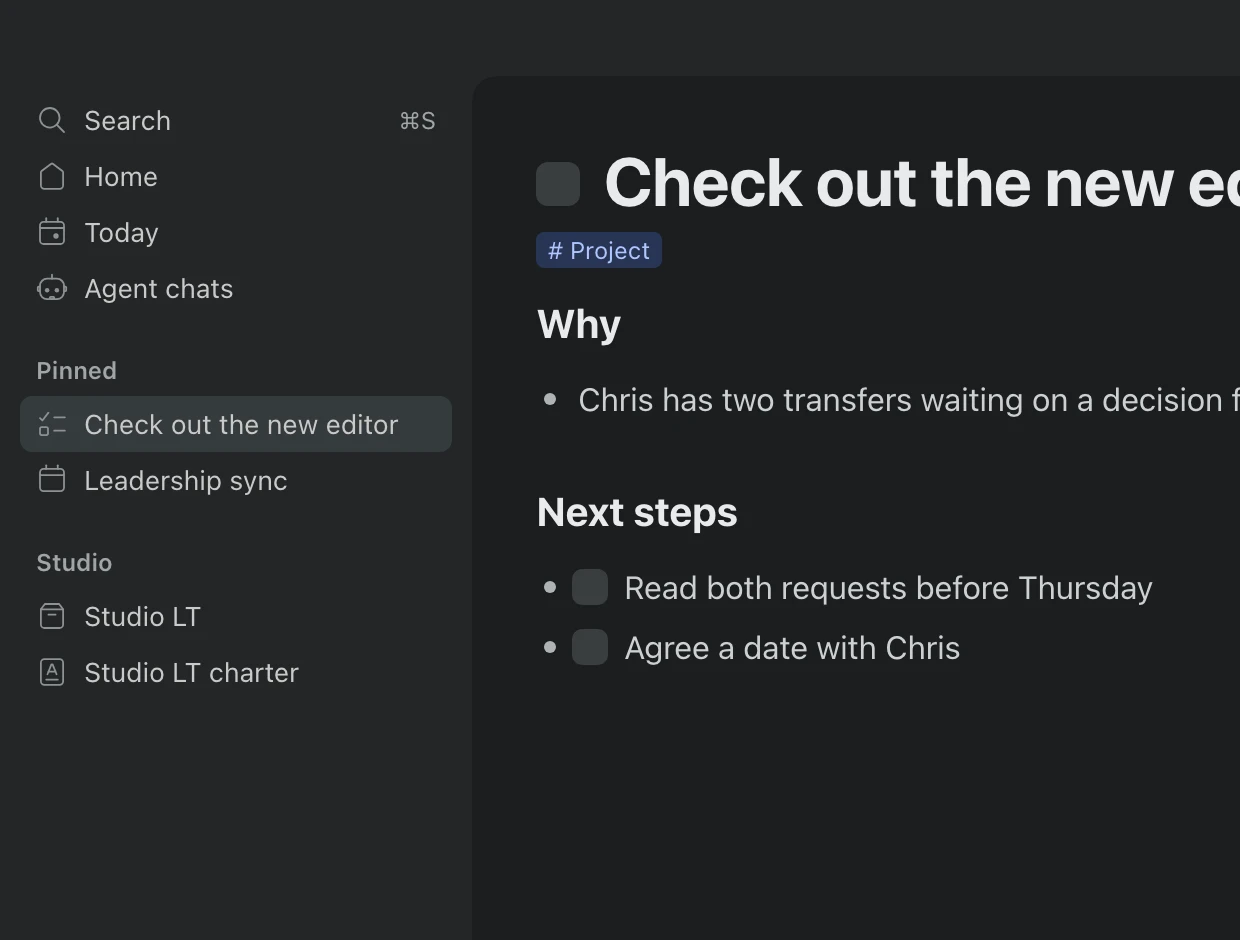
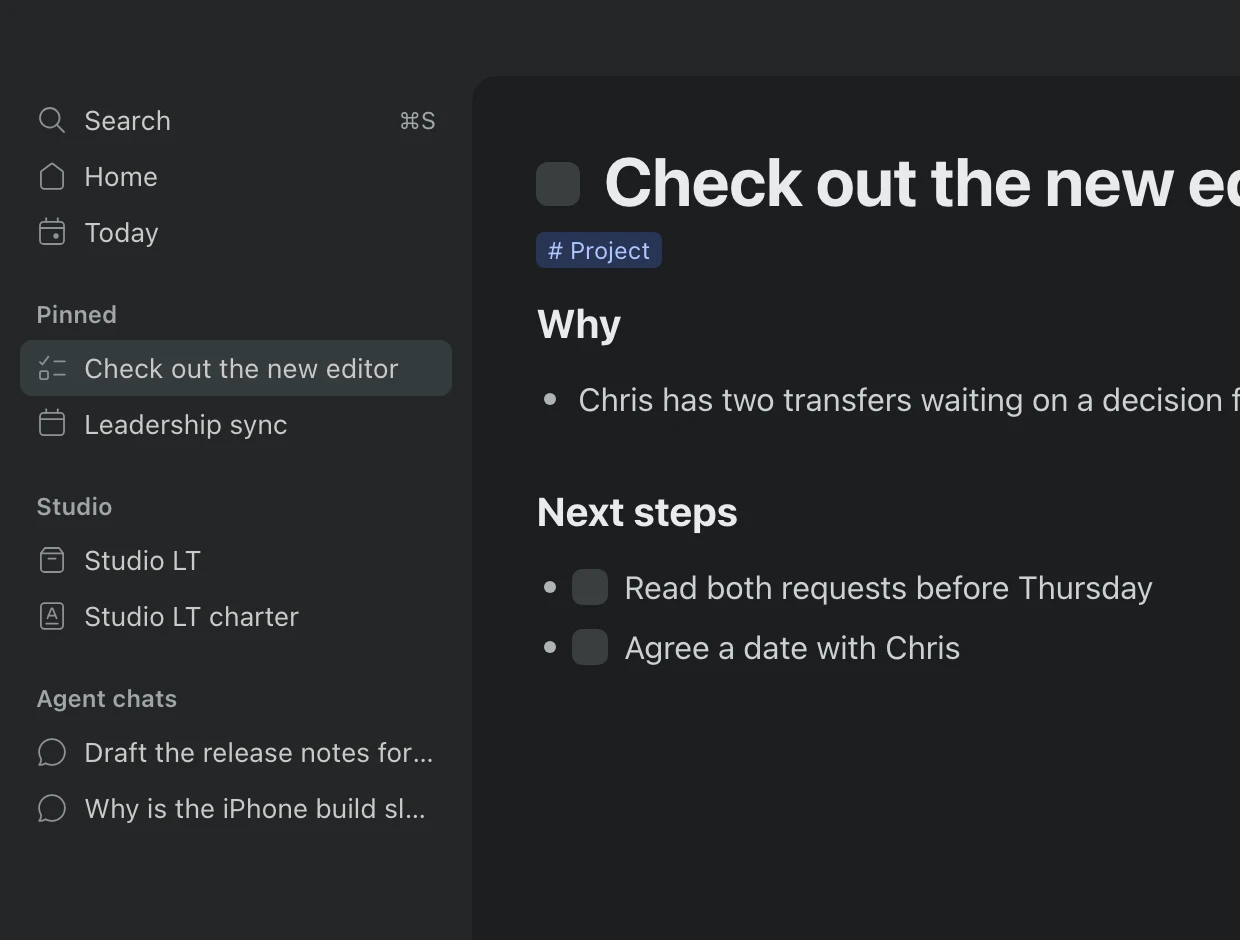
Agent chats in the sidebar: a section with your newest chats with Codex

diff --git a/shell.js b/shell.js
@@ -316,15 +316,17 @@ bridge.onCommand((cmd, arg) => {
   }
 });
 
-// ---- the window's sidebar: Search, Home, Today and Agent chats, then your sidebar pins as Tana keeps them (docs/OUTLINER.md §19) ----
+// ---- the window's sidebar: Search, Home and Today, your sidebar pins, then your Agent chats as Tana keeps them (docs/OUTLINER.md §19) ----
 // Every row acts in the page the Graph pane would follow (the last to take the keys): a pin opens there, Search opens
-// its ⌘S, Home, Today and Agent chats run its Cmd+K rows. The pins are Tana's own sidebar collection (docs/PINNING.md): pins at the
+// its ⌘S, Home and Today run its Cmd+K rows, and an agent chat opens there. The pins are Tana's own sidebar collection (docs/PINNING.md): pins at the
 // top level under Pinned, then each section with its pins, read from main (main/pins.js pinTree) and read again
 // whenever main says it moved (pins:changed). Its edge is the handle: dragged it resizes, and let go narrower than
 // SB_SHUT it is its icons alone (SB_RAIL wide), never less; ⌘K Collapse/Expand sidebar and ⌃⌘S switch the two.
 const sidebar = document.getElementById('sidebar'), edge = document.getElementById('sbEdge');
 const SB_RAIL = 48, SB_MIN = 180, SB_MAX = 420, SB_SHUT = 120;
-const sbFolded = new Set(JSON.parse(localStorage.getItem('windowSidebarFolded') || '[]')); // section ids, 'pinned' for the top level
+const sbFolded = new Set(JSON.parse(localStorage.getItem('windowSidebarFolded') || '[]')); // section ids, 'pinned' for the top level, 'agentChats'
+let sbChats = []; // your chats with Codex, newest first (main/agentchats.js): the Agent chats section, its newest SB_CHATS
+const SB_CHATS = 8;
 demoMode = localStorage.getItem('demoMode') === '1'; // renderer/segments.js: titles made up while demo mode is on
 // the row glyphs: one chosen with Set icon (a Nucleo "nc-…", its markup sent with the pin by main/pins.js pinTree), a
 // node's own where icons.js has it, the ones it names differently, else its kind's (tana:search: → a search), else a document's.
@@ -350,7 +352,7 @@ function sbDraw() {
   const rows = [];
   const search = sbButton('sbrow', 'search', 'Search', () => toPage({ orbital: 'palette', mode: 'search' }));
   if (searchKey) { const k = document.createElement('kbd'); k.textContent = searchKey; search.append(k); }
-  rows.push(search, sbButton('sbrow', 'home', 'Home', () => toPage({ orbital: 'action', id: 'goHome' })), sbButton('sbrow', 'today', 'Today', () => toPage({ orbital: 'action', id: 'today' })), sbButton('sbrow', 'robot', 'Agent chats', () => toPage({ orbital: 'action', id: 'agentChats' })));
+  rows.push(search, sbButton('sbrow', 'home', 'Home', () => toPage({ orbital: 'action', id: 'goHome' })), sbButton('sbrow', 'today', 'Today', () => toPage({ orbital: 'action', id: 'today' })));
   const pin = (n) => {
     const b = sbButton('sbrow', n.node.icon, demoText(n.node.title || 'Untitled', n.uri), () => toPage({ orbital: 'goto', id: n.uri }), n.uri, n.node.svg);
     b.dataset.uri = n.uri;
@@ -362,18 +364,26 @@ function sbDraw() {
   const pinned = (list) => list.filter((n) => n.uri && n.node);
   // the pins outside any section under Pinned, then each section; a section with nothing in it is not drawn
   const sections = [{ id: 'pinned', label: 'Pinned', pins: pinned(sbTree) }, ...sbTree.filter((n) => !n.uri && n.label).map((n) => ({ id: n.id, label: n.label, pins: pinned(n.children || []) }))];
-  for (const s of sections.filter((x) => x.pins.length)) {
-    const shut = sbFolded.has(s.id), head = document.createElement('button');
-    head.className = 'sbsec' + (shut ? ' shut' : ''); head.tabIndex = -1; head.textContent = s.label;
+  // a section's heading folds it, and shows its count while folded
+  const head = (id, label, count) => {
+    const shut = sbFolded.has(id), head = document.createElement('button');
+    head.className = 'sbsec' + (shut ? ' shut' : ''); head.tabIndex = -1; head.textContent = label;
     head.setAttribute('aria-expanded', String(!shut));
-    if (shut) { const n = document.createElement('span'); n.className = 'n'; n.textContent = s.pins.length; head.append(n); }
+    if (shut) { const n = document.createElement('span'); n.className = 'n'; n.textContent = count; head.append(n); }
     else head.insertAdjacentHTML('beforeend', glyph('chevronRight'));
     head.onmousedown = (e) => e.preventDefault();
-    head.onclick = () => { if (sbFolded.has(s.id)) sbFolded.delete(s.id); else sbFolded.add(s.id); localStorage.setItem('windowSidebarFolded', JSON.stringify([...sbFolded])); sbDraw(); };
-    rows.push(head, ...(shut ? [] : s.pins.map(pin)));
-  }
+    head.onclick = () => { if (sbFolded.has(id)) sbFolded.delete(id); else sbFolded.add(id); localStorage.setItem('windowSidebarFolded', JSON.stringify([...sbFolded])); sbDraw(); };
+    return head;
+  };
+  for (const s of sections.filter((x) => x.pins.length)) rows.push(head(s.id, s.label, s.pins.length), ...(sbFolded.has(s.id) ? [] : s.pins.map(pin)));
   // nothing pinned yet: what would fill it, and how
   if (!sections.some((s) => s.pins.length)) { const p = document.createElement('p'); p.className = 'sbempty'; p.textContent = 'Pin anything here with ⌘K, Pin to sidebar …'; rows.push(p); }
+  // Agent chats: the newest, each opening its chat in the page; none yet offers a new one, more than fit the whole list
+  if (bridge.agentChats) {
+    const chat = (c) => { const b = sbButton('sbrow', 'chat', demoText(c.title || 'New chat', c.id), () => toPage({ orbital: 'goto', id: c.id }), c.id); b.dataset.uri = c.id; return b; };
+    const more = sbChats.length > SB_CHATS ? [sbButton('sbrow', 'robot', 'All agent chats', () => toPage({ orbital: 'action', id: 'agentChats' }))] : [];
+    rows.push(head('agentChats', 'Agent chats', sbChats.length), ...(sbFolded.has('agentChats') ? [] : sbChats.length ? [...sbChats.slice(0, SB_CHATS).map(chat), ...more] : [sbButton('sbrow', 'robot', 'New chat with Codex', () => toPage({ orbital: 'action', id: 'newAgentChat' }))]));
+  }
   sidebar.replaceChildren(...rows);
   sbMark();
 }
@@ -389,6 +399,9 @@ function sbLoad() {
   bridge.pins().then((tree) => { if (mine === sbReading) { sbTree = Array.isArray(tree) ? tree : []; sbDraw(); } }, () => {});
 }
 bridge.onPins?.(sbLoad);
+function sbChatsLoad() { bridge.agentChats?.().then((list) => { sbChats = Array.isArray(list) ? list : []; sbDraw(); }, () => {}); }
+bridge.onAgentChats?.(sbChatsLoad);
+sbChatsLoad();
 // The width it is drawn at: --sw for the sidebar, the panes beside it and the edge (shell.css); its icons alone below SB_SHUT.
 function sbApply(width = sbOpen ? sbWidth : SB_RAIL) {
   document.body.style.setProperty('--sw', width + 'px');

diff --git a/manual/scenes/kit.js b/manual/scenes/kit.js
@@ -39,7 +39,9 @@ const SIDEBAR_PINS = [{ id: 'p1', uri: 'mockdoc2', node: { title: 'Check out the
   { id: 'p2', uri: 'mockmeeting2', node: { title: 'Leadership sync', icon: 'meeting' }, children: [] },
   { id: 's1', label: 'Studio', children: [{ id: 'p3', uri: 'tana:space:mock', node: { title: 'Studio LT', icon: 'space' }, children: [] },
     { id: 'p4', uri: 'mockspacedoc0', node: { title: 'Studio LT charter', icon: 'doc' }, children: [] }] }];
-const live = (doc = null, withReal = false) => ({ page: 'shell', js: '(' + (async (doc, REAL, PINS) => {
+// and its Agent chats section (main/agentchats.js list's shape), the mock's two chats with Codex (renderer/mock.js)
+const SIDEBAR_CHATS = [{ id: 'orbital:agent-chat:0198c0de-0000-7000-8000-000000000001', title: 'Draft the release notes for 0.11' }, { id: 'orbital:agent-chat:0198c0de-0000-7000-8000-000000000002', title: 'Why is the iPhone build slow?' }];
+const live = (doc = null, withReal = false) => ({ page: 'shell', js: '(' + (async (doc, REAL, PINS, CHATS) => {
   const theme = document.documentElement.dataset.theme || 'light';
   const prep = (f) => { const w = f.contentWindow; if (REAL) w.eval(REAL); w.document.getElementById('login')?.click(); if (theme === 'dark') w.applyTheme('dark');
     w.eval("tana.splitWindow = async (where, start) => parent.orbOpen(where, start || {}, new URLSearchParams(location.search).get('side') || '')"); };
@@ -47,11 +49,11 @@ const live = (doc = null, withReal = false) => ({ page: 'shell', js: '(' + (asyn
   document.getElementById('workspace').replaceChildren();
   for (const b of document.querySelectorAll('.head button, #create')) b.querySelector('svg')?.remove();
   let seq = 3;
-  window.shell = { state: () => ({ doc, theme }), onCommand: (cb) => { window.shellCmd = cb; }, layout() {}, onPins() {}, pins: async () => PINS };
+  window.shell = { state: () => ({ doc, theme }), onCommand: (cb) => { window.shellCmd = cb; }, layout() {}, onPins() {}, pins: async () => PINS, onAgentChats() {}, agentChats: async () => CHATS };
   window.orbOpen = (where, start, from) => { const id = String(++seq); localStorage.setItem('view', start.view || 'library'); localStorage.setItem('place', start.place || '{}'); window.shellCmd('open', { id, where, from, focus: true }); return id; };
   await import('/shell.js?live');
   await new Promise((r) => setTimeout(r, 1800));
-}) + ')(' + J(doc) + ',' + J(withReal ? REAL : '') + ',' + J(SIDEBAR_PINS) + ')' });
+}) + ')(' + J(doc) + ',' + J(withReal ? REAL : '') + ',' + J(SIDEBAR_PINS) + ',' + J(SIDEBAR_CHATS) + ')' });
 // a Trellis layout of panels side by side: layout([0.6, 0.4], [panel('a', ['page']), panel('b', ['page2'])], { page: page(''), page2: page('2') })
 const panel = (id, views, selected = views[0]) => ({ kind: 'panel', id: 'panel-' + id, views, selected });
 const page = (side, links) => ({ type: 'page', params: links ? { side, links: true } : { side } });
@@ -74,4 +76,4 @@ const dropOnCreate = (type, name = 'receipt.png') => ({ page: 'shell', js: "(() 
 // Auto-translate on or off (renderer/translate.js): the Dutch note mocknl0 then reads in English
 const translate = (on) => ({ js: on ? "setPref('translateTo', 'English'); render(true)" : "setPref('translateTo', undefined); render(true)" });
 
-module.exports = { open, settle, palette, onlyPalette, NARROW, REAL, real, seedTaskMeta, seedFields, live, panel, page, layout, overlay, helpTour, quickAdd, dropOnCreate, translate, SIDEBAR_PINS };
+module.exports = { SIDEBAR_CHATS, open, settle, palette, onlyPalette, NARROW, REAL, real, seedTaskMeta, seedFields, live, panel, page, layout, overlay, helpTour, quickAdd, dropOnCreate, translate, SIDEBAR_PINS };

diff --git a/manual/pins.html b/manual/pins.html
@@ -90,8 +90,8 @@
 
   <section class="topic">
     <h2 id="sidebar" data-k="tack pinned mark pin to sidebar section collapse expand icons">Pin to the sidebar</h2>
-    <p>The sidebar is Tana's own list of your favourite places, the same one you see at home.tana.inc, and every Orbital window shows it on its left. At the top are <b>Search</b> (<kbd>⌘S</kbd>), <b>Home</b>, <b>Today</b> and <b>Agent chats</b> (<a href="chats.html#agent-chats">Chat with Codex</a>). Under them come the nodes you pinned: the ones in no section under <b>Pinned</b>, then each of your sections. Click a pin to open it in the pane you are working in; the one on screen is highlighted. Click a section's name to fold it, and it shows how many pins it holds.</p>
-    <figure class="shot"><img data-m="pins-sidebar" alt="The window's sidebar: Search, Home, Today and Agent chats, then Pinned with two pins and a Studio section with two more"><figcaption>Two loose pins under Pinned, and a section called Studio.</figcaption></figure>
+    <p>The sidebar is Tana's own list of your favourite places, the same one you see at home.tana.inc, and every Orbital window shows it on its left. At the top are <b>Search</b> (<kbd>⌘S</kbd>), <b>Home</b> and <b>Today</b>, and at the bottom your newest chats with Codex under <b>Agent chats</b> (<a href="chats.html#agent-chats">Chat with Codex</a>). Under them come the nodes you pinned: the ones in no section under <b>Pinned</b>, then each of your sections. Click a pin to open it in the pane you are working in; the one on screen is highlighted. Click a section's name to fold it, and it shows how many pins it holds.</p>
+    <figure class="shot"><img data-m="pins-sidebar" alt="The window's sidebar: Search, Home and Today, Pinned with two pins, a Studio section with two more, then Agent chats with two chats"><figcaption>Two loose pins under Pinned, and a section called Studio.</figcaption></figure>
     <p>To pin the node you are on, open <kbd>⌘K</kbd> and choose <b>Pin to sidebar …</b>. It asks where: <b>Pinned</b>, one of your sections, or a new section, which you name by typing. A node already in the sidebar moves to the section you pick. <b>Edit pins</b> offers the same row.</p>
     <figure class="shot"><img data-m="pins-sidebar-section" alt="Pin to sidebar: Pinned with no section, the Studio section with its pin count, and New section"><figcaption>Pick a section, or type a name for a new one.</figcaption></figure>
     <p>Drag the sidebar's edge to make it wider or narrower. Let go of it narrow and it keeps only its icons, each named when you point at it; it never disappears. <b>Collapse sidebar</b> and <b>Expand sidebar</b> in <kbd>⌘K</kbd>, or <kbd>⌃⌘S</kbd>, switch between the two.</p>

diff --git a/manual/scenes/pins.js b/manual/scenes/pins.js
@@ -18,7 +18,7 @@ module.exports = [
     { type: 'fri' }, { wait: 1100 }, { js: 'palInput.select()' }, { type: 'in 3 days' }, { wait: 1100 }, { js: 'palInput.select()' }, { type: '12 oct' }, { wait: 1100 },
     { js: 'palInput.select()' }, { type: 'next week' }, { wait: 1200 }] },
   { name: 'pins-edit', setup: [...open(A), pinned, { wait: 400 }], steps: [{ key: '⌘K' }, { type: 'edit pins' }, { wait: 300 }, { key: '↩' }, { wait: 900 }], clip: card },
-  // the window's sidebar: Search, Home and Today, then the pins outside a section and each section's (kit.js SIDEBAR_PINS)
+  // the window's sidebar: Search, Home and Today, the pins outside a section and each section's (kit.js SIDEBAR_PINS), then Agent chats (SIDEBAR_CHATS)
   { name: 'pins-sidebar', setup: [W, { js: "goTo('mockdoc2')" }, { wait: 900 }], clip: [0, 0, 620, 470] },
   // Pin to sidebar … asks which section: Pinned, a section of yours, or a new one named as you type
   { name: 'pins-sidebar-section', setup: open(A), steps: [{ key: '⌘K' }, { type: 'pin to sidebar' }, { wait: 300 }, { key: '↩' }, { wait: 600 }], clip: card },
@@ -32,4 +32,3 @@ module.exports = [
     { js: "[...document.querySelectorAll('.node .text')].at(-1).id = 'mc-last'" }, { click: '#mc-last', at: [0.99, 0.5] }, { wait: 300 }, { key: '↩' }, { type: 'Call the venue ' }, { type: '@' }, { wait: 400 },
     { type: 'friday' }, { wait: 900 }, { key: '↩' }, { wait: 1300 }] },
 ];
-

diff --git a/manual/scenes/run.js b/manual/scenes/run.js
@@ -227,7 +227,7 @@ function parseKey(combo) {
         const state = { doc: shot.layout || (panes > 1 ? pair(shot.graph) : null), theme };
         // every shot starts from a fresh window: nothing a page stored in an earlier shot (its place, a fold, a pref)
         await send('Storage.clearDataForOrigin', { origin: 'http://127.0.0.1:' + server.address().port, storageTypes: 'local_storage,session_storage,indexeddb' });
-        const { identifier } = await send('Page.addScriptToEvaluateOnNewDocument', { source: 'if (window === top) window.shell = { state: () => (' + JSON.stringify(state) + '), onCommand() {}, layout() {}, onPins() {}, pins: async () => (' + JSON.stringify(require('./kit').SIDEBAR_PINS) + ') };' });
+        const { identifier } = await send('Page.addScriptToEvaluateOnNewDocument', { source: 'if (window === top) window.shell = { state: () => (' + JSON.stringify(state) + '), onCommand() {}, layout() {}, onPins() {}, pins: async () => (' + JSON.stringify(require('./kit').SIDEBAR_PINS) + '), onAgentChats() {}, agentChats: async () => (' + JSON.stringify(require('./kit').SIDEBAR_CHATS) + ') };' });
         await send('Page.navigate', { url: 'http://127.0.0.1:' + server.address().port + '/shell.html' });
         await sleep(1500);
         await send('Page.removeScriptToEvaluateOnNewDocument', { identifier });

diff --git a/main/agentchats.js b/main/agentchats.js
@@ -13,7 +13,7 @@ const os = require('node:os');
 const path = require('node:path');
 const agent = require('./agent');
 const settings = require('./settings');
-const { send } = require('./state');
+const { S, send } = require('./state');
 const { chatRows } = require('../sdk/chat');
 const { appServerRpc, codexBin, TASK } = require('./agents/codex');
 
@@ -45,7 +45,12 @@ function linkOf(id) {
   if (!link) throw new Error('That chat is not here any more');
   return { threadId: t, ...link };
 }
-function store(threadId, link) { const all = { ...links() }; if (link) all[threadId] = link; else delete all[threadId]; settings.set(KEY, all); send('agentChat:changed', LIST); }
+// the list changed: the pages read it again, and so does each window's sidebar (shell.js), which hears nothing of send
+function store(threadId, link) {
+  const all = { ...links() }; if (link) all[threadId] = link; else delete all[threadId]; settings.set(KEY, all);
+  send('agentChat:changed', LIST);
+  for (const w of S.windows || []) { const wc = w.shell && w.shell.webContents; if (wc && !wc.isDestroyed()) wc.send('agentChat:changed', LIST); }
+}
 const away = (link) => agent.elsewhere({ device: link.device });
 const title = (text) => agent.oneLine(text, 60) || 'New chat';
 // the list page's rows (and what the renderer opens them by), newest first

diff --git a/manual/windows.html b/manual/windows.html
@@ -127,7 +127,7 @@
       <li><b>The page's buttons</b> Back, Forward and the rest show while the pointer is over the pane. The “…” opens the pane's menu.</li>
       <li><b>The line between panes</b> Drag it to give one pane more room.</li>
       <li><b>Create new</b> in the corner makes a new node in the pane in front.</li>
-      <li><b>The sidebar</b> One per window, beside its panes: Search, Home, Today, Agent chats and your sidebar pins. Its edge resizes it, down to its icons alone (<kbd>⌃⌘S</kbd>). See <a href="pins.html#sidebar">Pins</a>.</li>
+      <li><b>The sidebar</b> One per window, beside its panes: Search, Home, Today, your sidebar pins and your chats with Codex. Its edge resizes it, down to its icons alone (<kbd>⌃⌘S</kbd>). See <a href="pins.html#sidebar">Pins</a>.</li>
     </ol>
     <p>A window with one page has no tab bar at all: it looks as if there were no panes, and the page's buttons sit in the window's header. The tab bars appear once there is a second page.</p>
     <div class="note"><b>One pane per place.</b> A node, a document or a view is shown in one pane at a time. Open something that is already on screen in another pane, from a row, a link or <kbd>⌘K</kbd>, and Orbital takes you to that pane. The Library is the one page you can have open in several.</div>

diff --git a/manual/chats.html b/manual/chats.html
@@ -310,7 +310,7 @@
     <div class="split">
       <div>
         <ul>
-          <li><b>Agent chats</b>, in the sidebar or <kbd>⌘K</kbd>, lists your chats with Codex, newest first. One started on another Mac is listed too, and opens on that Mac.</li>
+          <li>The sidebar lists your newest chats with Codex under <b>Agent chats</b>, and <kbd>⌘K</kbd> <b>Agent chats</b> opens all of them, newest first. One started on another Mac is listed too, and opens on that Mac.</li>
           <li><kbd>⌘K</kbd> <b>Open in Codex</b> shows the chat in the Codex app, <b>Stop Codex</b> stops an answer being written, and <b>Delete chat</b> takes it off the list. It stays in Codex.</li>
           <li>Codex works in a folder of its own, <code>~/.orbital/chats</code>, and does not stop to ask you for approval: its own reviewer decides. When the Codex app has the chat open, your message is queued there and answered in the app.</li>
         </ul>

diff --git a/manual/index.html b/manual/index.html
@@ -127,7 +127,7 @@
       <li><b>What happened</b> Changes to what you watch and new tasks in your Inbox, newest first. <a href="timeline.html">Timeline</a></li>
       <li><b>My Tasks</b> A saved search of your open tasks, one of the views you can make yourself. <a href="views.html">Views</a></li>
       <li><b>Create new</b> A task, a note, a chat or a search. Drop an image on it to turn it into a task. <a href="start.html">First steps</a></li>
-      <li><b>The sidebar</b> Search, Home, Today and Agent chats, then what you pinned to your sidebar, in its sections. <a href="pins.html#sidebar">Pins</a></li>
+      <li><b>The sidebar</b> Search, Home and Today, what you pinned to your sidebar in its sections, then your chats with Codex. <a href="pins.html#sidebar">Pins</a></li>
     </ol>
   </section>
 

diff --git a/preload.js b/preload.js
@@ -20,6 +20,9 @@ if (file === 'shell.html') {
     pins: () => ipcRenderer.invoke('pins:tree'),
     pinMenu: (uri) => ipcRenderer.invoke('pins:menu', uri), // a right-click on a pin: Remove pin
     onPins: (cb) => ipcRenderer.on('pins:changed', () => cb()),
+    // its Agent chats section: your chats with Codex, newest first (main/agentchats.js), read again on onAgentChats
+    agentChats: () => ipcRenderer.invoke('agentChat:list'),
+    onAgentChats: (cb) => ipcRenderer.on('agentChat:changed', () => cb()),
   });
   return;
 }

diff --git a/AGENTS.md b/AGENTS.md
@@ -10,7 +10,7 @@ Adding something — an IPC call, a `main/` module, a view or an app page, a Cmd
 |------|------|
 | `main.js`, `main/` | The Electron main process. `main.js` is the process boundary only: windows (outliner windows — ⌃⌘N opens another, see docs/OUTLINER.md Windows — and the Help tour or Quick Add Task laid over one, main.js openOverlay; a canvas in a window of its own on Tana’s page, canvas:open, #611), menu, boot, the `TANA_MAIN_TEST` hook, and registering the renderer's calls: a `main/` module that answers the page exports them as `ipc = { 'channel': (event, ...args) => … }` beside the code they call, main.js registers every such table in one loop, and `preload.js` names each channel for the page (a new call: the module's table and preload.js; a new module: one entry in that loop). sdk-check fails when a preload channel has no handler, a handler has no caller, or a channel has two. Everything that knows Tana is in `main/`, CommonJS modules requiring each other without cycles, listed here in dependency order (a module requires only ones before it): `state` (the one `S` object every module shares for what gets reassigned — client, me, win, session, status, active view — plus the caches, constants and `send`/`sendChanged`/`setStatus`/`scheduleRefresh`; views.js injects `S.refresh`) → `settings` (the app's own settings document in Tana: what follows you between machines, with SQLite as its mirror) → `MCP server` (the Orbital MCP server at orbital.md/mcp as Orbital talks to it: your Orbital's key and its calls, the link message and every event's words, and a node's Agent status line; shared by `agents/linked.js`, `documents` and the phones' engine, docs/MCP-SERVER.md) → `icons` (the glyph a type is drawn with, and the Nucleo set behind Set icon) and `agent` (the agents a node can be handed to, as plugins that register themselves: which are on, the default, and the task each node became; the plugins are `agents/`, below) → `rows` (graph node → row/Node, hues, types, members, event meta) → `documents` (subscribe/op/mut, on-demand subscriptions and their release, the cross-document undo stack, delete/restore, create, info, onChange, access context) → `images`, `meetings`, `pins`, `inbox`, `proposals`, `presence` (each described below) → `related` (owner chain, space contents, fields, the meeting hub: write-up, call link, pins, outcomes, notes, over the write-up and call-link rules in sdk/events.js) and `views` (the views' filters, the one query, the refresh and the live queries that trigger it, search, hidden titles, `start`) → `timeline`. Leaves no other module requires: `ai` (the one place the app talks to a model: Discuss with, Auto-pick type, the boot icon pick, a meeting time said in words; ChatGPT sign-in or the API key; its instructions and model labels are `prompts`, which the phones' engine bundles too as orbital.prompts), `agents/` (the agent plugins, issue #669: `tana.js`, a Tana chat answered by Tana's AI; `codex.js`, a Codex task through its app-server, which `ai` also signs in with; `linked.js`, every agent linked through the MCP server at orbital.md/mcp (your Dot, OpenAI's agent in ChatGPT), one plugin each as they come and go, docs/MCP-SERVER.md; and `index.js`, which loads them and answers the renderer: assign, link, open, status), `agentchats` (Agent chats: a chat in Orbital that is a Codex thread, run in ~/.orbital/chats, only its link kept, docs/CHATS.md §13), `chatagents` (@Codex in a chat, over the same agents: the question written to the chat, a task on this device given the chat, its answer read back and kept on this device only, docs/CHATS.md §12), `pdf` (Export to PDF), and `flags` (feature flags: experiments switched on this Mac only, Cmd+K Enable feature flag) with the one experiment behind a flag, `decisions` (OpenAI's Decisions API for the questions with a fixed set of answers: Auto-pick type, Suggest sensitive marks and the order of the @ and # menus; main.js switches to it while its flag is on and an API key is stored, so it comes out as one file and that switch; issue #807). In more detail: `pins` (sidebar/date/hub pins, today and week nodes), `meetings` (a meeting's time, place and people for ⌘K, over sdk/events.js and access.canEditEvent, and the meeting you have joined right now, over sdk/calls), `images` (image fetch with the session token, the upload behind pasted and dropped images), `inbox` (the Notifications page over sdk/inbox.js: rows, unread count, the read writes, `inbox:changed` live), `proposals` (the Proposals page over sdk/proposals.js: the pending proposals as their documents' rows, approve and reject), `timeline` (the Timeline page: others' changes to watched nodes, tasks others, MCP or Tana's AI put in your Inbox and the tasks you added yourself, as a log rebuilt from Tana on every read), `presence` (the presence room of the document on screen, over sdk/presence.js: who else is there and on which block, and your own caret told to Tana). `meeting-notes` (a meeting's private notes, docs/MEETINGS.md Private notes: owned by and pinned on the meeting, restricted to you, at ids derived from you and the meeting, made on your first word, confirmed private by Tana before a word is written; shared by you later they stay the editor, the page saying so, and every write is checked against their live access; a leaf over `documents`). `scripts/sdk-check.js` runs all of it in one vm context with a fake electron. The only place that knows about "tasks". |
 | `preload.js` | `window.api` surface for the renderer (contextBridge), used by both windows; in a window's shell (its main frame) only `window.shell`. |
-| `shell.html`, `shell.js`, `shell.css` | A window's own page: a [Trellis](https://github.com/DanFessler/trellis) workspace (`@danfessler/trellis`, loaded as an ES module from node_modules; a checkout that has not run npm install since it arrived shows a blank window) beside the window's sidebar (Search, Home, Today, Agent chats and your Tana sidebar pins and sections, from main/pins.js pinTree; its edge resizes and shuts it, docs/OUTLINER.md §19), holding any number of outliner pages, each an iframe of `index.html?side=<id>` ('' the first, then '2', '3', …, fixed for the page's life): docked side by side, as tabs, or floating, with Trellis's maximize, overview and pinch zoom once there is more than one. The shell owns the layout (the window's header with the traffic lights, ⌘K and Help, panes, tabs, the header and top tab bars as the window's drag region, the close guard that flushes a page before it goes, the palette laid over the whole window, #409), and a page asks it for a Trellis command straight through window.parent ('run': its keys are pressed in the page, where the shell never hears them); main owns what is saved and which pages exist, keyed by frame (main.js `addPage`, main/state.js `pageOf`), and tells the shell what to do (`shell:command`). Trellis is free for non-commercial use only; a commercial or enterprise licence is needed otherwise (its LICENSE.md). |
+| `shell.html`, `shell.js`, `shell.css` | A window's own page: a [Trellis](https://github.com/DanFessler/trellis) workspace (`@danfessler/trellis`, loaded as an ES module from node_modules; a checkout that has not run npm install since it arrived shows a blank window) beside the window's sidebar (Search, Home, Today, your Tana sidebar pins and sections, from main/pins.js pinTree; its edge resizes and shuts it, docs/OUTLINER.md §19), holding any number of outliner pages, each an iframe of `index.html?side=<id>` ('' the first, then '2', '3', …, fixed for the page's life): docked side by side, as tabs, or floating, with Trellis's maximize, overview and pinch zoom once there is more than one. The shell owns the layout (the window's header with the traffic lights, ⌘K and Help, panes, tabs, the header and top tab bars as the window's drag region, the close guard that flushes a page before it goes, the palette laid over the whole window, #409), and a page asks it for a Trellis command straight through window.parent ('run': its keys are pressed in the page, where the shell never hears them); main owns what is saved and which pages exist, keyed by frame (main.js `addPage`, main/state.js `pageOf`), and tells the shell what to do (`shell:command`). Trellis is free for non-commercial use only; a commercial or enterprise licence is needed otherwise (its LICENSE.md). |
 | `help.html`, `help.js`, `task.html`, `task.js`, `update.html`, `update.js` | The pages main lays over the whole window as a transparent view, above every pane (main.js `openOverlay`), asked for by `renderer/overlays.js` (the update card by main, when a check finds a release), each its own scope outside the outliner's: the Help tour (eight pages of the basics, each with a CSS loop of the keys at work, styles.css Help, the last the choice of phone: the iPhone app’s TestFlight code and link, and Android’s download code once the latest release has the APK, coming soon until then) and Quick Add Task (a title, a workflow type and an assignee, in the palette's card) and the update card (the release notes since this version, then Update and Restart with its progress bar, over `updater.js`). |
 | `settings.html`, `settings.js`, `settings.css` | The Settings window: a window of its own, as a Mac app's settings are (main.js `openSettings`, one at a time, its height the tab's), with macOS 27's toolbar tabs over grouped rows of controls; each control makes the call its Cmd+K row makes, and main sends it what it sends the pages. Borrows renderer/segments.js for demo mode's masks and renderer/settings.js for the model and effort labels. |
 | `manual/` | The manual (Cmd+K Open Manual opens https://orbital.md/manual in the browser; not packaged, published there at each release): static pages, one per chapter, over `manual.css` and `manual.js` (sidebar, ⌘K search from `search-index.js`, clips that play while in view), with pictures in `media/` in both themes. `manual/scenes/` is how they are made: `run.js` plays scenes in the real window on the mock (renderer/mock.js) in headless Chromium and writes stills and clips, `index.js` rebuilds the search index and lists Cmd+K rows no chapter mentions, and `README.md` says how to write a chapter. A change to a feature updates its chapter and its scene. |

diff --git a/docs/OUTLINER.md b/docs/OUTLINER.md
@@ -1628,7 +1628,7 @@ rows are grey glyphs and words, and each acts in the page the Graph pane would f
 take the keys.
 
 - **Search** (with the page's ⌘S, which the page tells the shell on every layout message, `{ orbital: 'keys' }`),
-  **Home** (Cmd+K Go to Home), **Today** (Cmd+K Today) and **Agent chats** (Cmd+K Agent chats, docs/CHATS.md §13) run those rows there.
+  **Home** (Cmd+K Go to Home) and **Today** (Cmd+K Today) run those rows there.
 - Then **your sidebar pins as Tana keeps them** (docs/PINNING.md §1): the pins at the top level under **Pinned**, then
   each section with its pins, in Tana's order; a click opens the pin in that page (`goto`), and the pin of the page on
   screen is marked. A right-click on a pin shows the Mac's own menu with **Remove pin**, which unpins it from the sidebar
@@ -1636,6 +1636,10 @@ take the keys.
   `windowSidebarFolded`); a section with nothing in it is not drawn, and with no pins at all one line says how to add one.
   Titles are masked in demo mode (renderer/segments.js `demoText`) and a sensitive pin is blurred until the header's
   eye shows sensitive items.
+- Then **Agent chats** (docs/CHATS.md §13), a section folded and counted like the others (`agentChats`): your newest eight
+  chats with Codex, each opening its chat in that page and marked while it is on screen, then **All agent chats** when there
+  are more (Cmd+K Agent chats); with none yet, **New chat with Codex**. Read from `window.shell.agentChats()` (main/agentchats.js
+  `list`) when the window loads and whenever main says `agentChat:changed` for the list. Titles are masked in demo mode.
 - **Where it comes from**: `window.shell.pins()` → main/pins.js `pinTree` (each pin with its node and `sensitive`), read
   when the window loads, on a sign-in, and whenever main says `pins:changed`: main watches the collection, the profile
   and every pinned document once read (`watchSidebar`), here or in Tana, and tells every window's shell a beat later
